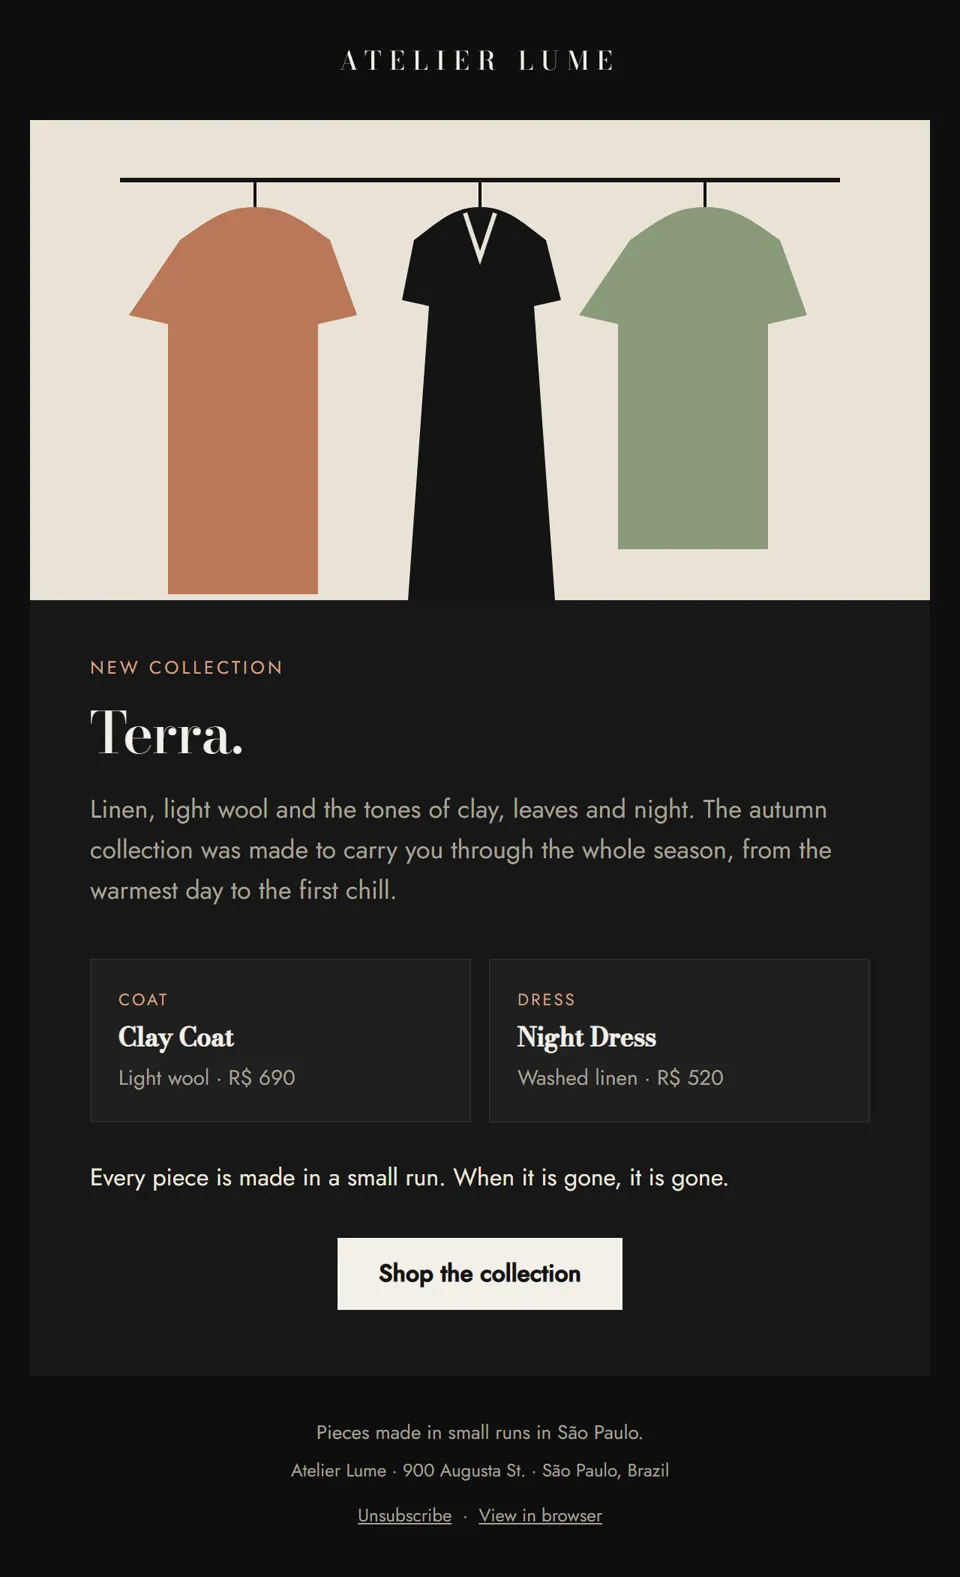
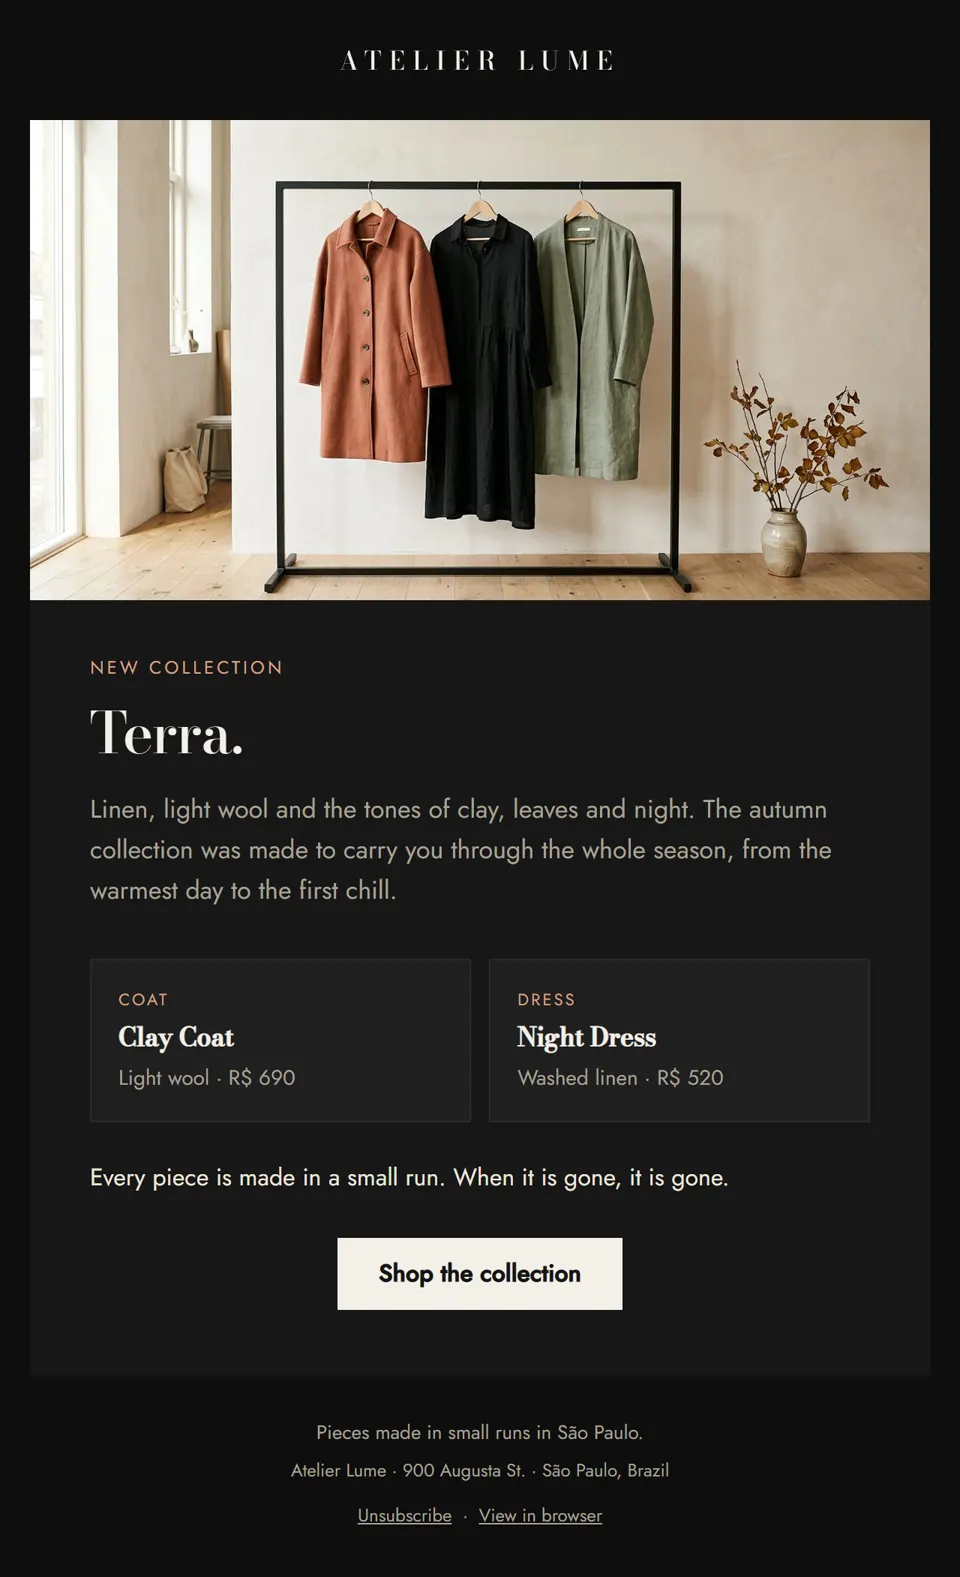
Lume Terra email: photographic hero generated in Figma (JPEG)
- kit hero() takes an ext option; Lume colecao uses colecao.jpg
- Rebuilt the email (PT/EN) and its light, dark and mobile previews

Changed region(s): [[0.0312, 0.0621, 0.9688, 0.4039]]

diff --git a/projetos/email-design/emails/lume-colecao.html b/projetos/email-design/emails/lume-colecao.html
@@ -58,7 +58,7 @@
 <table role="presentation" class="container" width="600" cellpadding="0" cellspacing="0" border="0" style="width:600px;max-width:600px;">
 <tr><td class="px" align="center" style="padding:8px 40px 24px;text-align:center;"><a href="https://example.com/atelier-lume" style="display:inline-block;"><img class="logo-light" src="https://joaoa.com.br/assets/email-design/lume/logo.png" width="192" height="20" alt="Atelier Lume" style="width:192px;height:20px;margin:0 auto;"><img class="logo-dark" src="https://joaoa.com.br/assets/email-design/lume/logo-dark.png" width="192" height="20" alt="" style="display:none;max-height:0;overflow:hidden;mso-hide:all;width:192px;height:20px;margin:0 auto;"></a></td></tr>
 <tr><td class="dm-card" style="background:#fbf9f5;border-radius:0px 0px 0px 0px;"><table role="presentation" width="100%" cellpadding="0" cellspacing="0" border="0" style="border-collapse:separate;">
-<tr><td style="background:#e9e2d6;border-radius:0px 0px 0 0;font-size:0;line-height:0;"><img class="fluid" src="https://joaoa.com.br/assets/email-design/lume/colecao.png" width="600" height="320" alt="Três peças penduradas numa arara: um casaco cor de barro, um vestido preto e um casaco verde-sálvia." style="width:100%;max-width:600px;height:auto;border-radius:0px 0px 0 0;"></td></tr>
+<tr><td style="background:#e9e2d6;border-radius:0px 0px 0 0;font-size:0;line-height:0;"><img class="fluid" src="https://joaoa.com.br/assets/email-design/lume/colecao.jpg" width="600" height="320" alt="Três peças penduradas numa arara: um casaco cor de barro, um vestido preto e um casaco verde-sálvia." style="width:100%;max-width:600px;height:auto;border-radius:0px 0px 0 0;"></td></tr>
 <tr><td class="px" style="padding:36px 40px 8px;">
       <p class="dm-accent" style="margin:0 0 12px;font-family:'Jost', Arial, sans-serif;font-size:12px;letter-spacing:2px;text-transform:uppercase;color:#b9785a;">Nova coleção</p>
       <h1 class="h1 dm-head" style="margin:0 0 16px;font-family:'Bodoni Moda', Didot, Georgia, serif;font-size:38px;line-height:44px;font-weight:500;letter-spacing:-0.5px;color:#141414;">Terra.</h1>

diff --git a/en/projects/email-design/emails/lume-colecao.html b/en/projects/email-design/emails/lume-colecao.html
@@ -58,7 +58,7 @@
 <table role="presentation" class="container" width="600" cellpadding="0" cellspacing="0" border="0" style="width:600px;max-width:600px;">
 <tr><td class="px" align="center" style="padding:8px 40px 24px;text-align:center;"><a href="https://example.com/atelier-lume" style="display:inline-block;"><img class="logo-light" src="https://joaoa.com.br/assets/email-design/lume/logo.png" width="192" height="20" alt="Atelier Lume" style="width:192px;height:20px;margin:0 auto;"><img class="logo-dark" src="https://joaoa.com.br/assets/email-design/lume/logo-dark.png" width="192" height="20" alt="" style="display:none;max-height:0;overflow:hidden;mso-hide:all;width:192px;height:20px;margin:0 auto;"></a></td></tr>
 <tr><td class="dm-card" style="background:#fbf9f5;border-radius:0px 0px 0px 0px;"><table role="presentation" width="100%" cellpadding="0" cellspacing="0" border="0" style="border-collapse:separate;">
-<tr><td style="background:#e9e2d6;border-radius:0px 0px 0 0;font-size:0;line-height:0;"><img class="fluid" src="https://joaoa.com.br/assets/email-design/lume/colecao.png" width="600" height="320" alt="Three pieces on a clothes rail: a clay-colored coat, a black dress and a sage-green coat." style="width:100%;max-width:600px;height:auto;border-radius:0px 0px 0 0;"></td></tr>
+<tr><td style="background:#e9e2d6;border-radius:0px 0px 0 0;font-size:0;line-height:0;"><img class="fluid" src="https://joaoa.com.br/assets/email-design/lume/colecao.jpg" width="600" height="320" alt="Three pieces on a clothes rail: a clay-colored coat, a black dress and a sage-green coat." style="width:100%;max-width:600px;height:auto;border-radius:0px 0px 0 0;"></td></tr>
 <tr><td class="px" style="padding:36px 40px 8px;">
       <p class="dm-accent" style="margin:0 0 12px;font-family:'Jost', Arial, sans-serif;font-size:12px;letter-spacing:2px;text-transform:uppercase;color:#b9785a;">New collection</p>
       <h1 class="h1 dm-head" style="margin:0 0 16px;font-family:'Bodoni Moda', Didot, Georgia, serif;font-size:38px;line-height:44px;font-weight:500;letter-spacing:-0.5px;color:#141414;">Terra.</h1>
